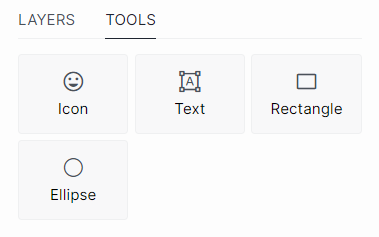
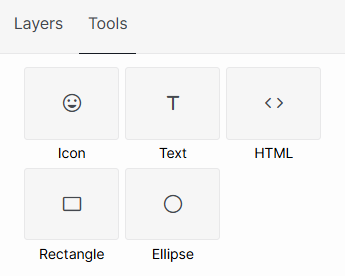
WIP 28/03

diff --git a/user-guide/Advanced_Modules/Dashboards_and_Low_Code_Apps/Configuring_components/Template_Editor.md b/user-guide/Advanced_Modules/Dashboards_and_Low_Code_Apps/Configuring_components/Template_Editor.md
@@ -65,7 +65,7 @@ The Template Editor UI consists of the following main components<!--RN 34858-->:
 
 ## Working with layers
 
-In the side pane of the Template Editor, the *Layers* tab offers an overview of all layers. Layers are used to make non-destructive edits by stacking icons, text, rectangles, and ellipses one on top of the other without compromising the pixels of individual elements.
+In the side pane of the Template Editor, the *Layers* tab offers an overview of all layers. Layers are used to make non-destructive edits by stacking icons, text, HTML content, rectangles, and ellipses one on top of the other without compromising the pixels of individual elements.
 
 The benefits of working with layers:
 
@@ -86,11 +86,19 @@ To **temporarily mask a layer** within the Template Editor, hover the mouse poin
 > [!TIP]
 > If you want to render a layer invisible in the final result, you can mask the layer by adjusting its properties in the *Settings* pane. See [Specifying layer properties](#specifying-layer-properties).
 
-To **delete a layer**, hover the mouse pointer over the layer and click the *delete* button in the top-right corner. Alternatively, select the layer in the preview and press *Delete* on your keyboard.
+To **delete a layer**:
+
+- From DataMiner 10.4.0 [CU14]/10.5.0 [CU2]/10.5.5 onwards<!--RN 42479-->: Hover the mouse pointer over the layer, click the ellipsis button ("...") in the top-right corner, and select *Delete*.
+
+- Earlier versions: Hover the mouse pointer over the layer and click the *delete* button in the top-right corner.
+
+Alternatively, select the layer in the preview and press *Delete* on your keyboard.
+
+To **duplicate a layer**, hover the mouse pointer over the layer, click the ellipsis button ("...") in the top-right corner, and select *Duplicate*. Available from DataMiner 10.4.0 [CU14]/10.5.0 [CU2]/10.5.5 onwards<!--RN 42479-->.
 
 To **add a new layer**, [add a new tool](#adding-new-layers) in the *Tools* tab.
 
-In the lower left corner of each layer, an icon denotes the layer type: an *icon*, *text*, *rectangle*, or *ellipse* layer.
+In the lower left corner of each layer, an icon denotes the layer type: an *icon*, *text*, *HTML*, *rectangle*, or *ellipse* layer.
 
 ## Adding new layers
 
@@ -100,13 +108,15 @@ In the *Tools* tab, you can add new layers to the template. Each tool in the *To
 
 - Text
 
+- HTML (available from DataMiner 10.4.0 [CU14]/10.5.0 [CU2]/10.5.5 onwards<!--RN 42519-->)
+
 - Rectangle
 
 - Ellipse
 
-![*Tools* tab](~/user-guide/images/Tools_Tab.png)<br/>*The Template Editor in DataMiner 10.4.1*
+![*Tools* tab](~/user-guide/images/Tools_Tab.png)<br/>*The Template Editor in DataMiner 10.5.5*
 
-1. To add a new layer to the template, click the *Icon*, *Text*, *Rectangle*, or *Ellipse* button.
+1. To add a new layer to the template, click the *Icon*, *Text*, *HTML*, *Rectangle*, or *Ellipse* button.
 
 1. Within the preview, press and hold down the left mouse button to define the area for your new layer. The layer appears, enclosed by dotted lines in a frame around the selected area. Release the mouse button once you are satisfied with the size and shape of the tool.
 
@@ -168,6 +178,8 @@ Depending on the type of layer, you can specify different layer properties in th
 
   - *Icon*: Allows you to select any of the available icons from the dropdown list. You can search for a specific icon using the filter box at the top.
 
+  - *Tooltip* ![tooltip](~/user-guide/images/Tooltip.png) : Available from DataMiner 10.4.0 [CU14]/10.5.0 [CU2]/10.5.5 onwards<!--RN 42503-->. Allows you to configure a tooltip that appears when hovering over the icon. If multiple layers overlap, the tooltip of the topmost layer will be displayed.
+
   - *Configure actions*: Allows you to configure actions that are executed when a user clicks the icon. Only available for DataMiner Low-Code Apps<!--RN 34761-->.
 
     > [!TIP]
@@ -175,14 +187,16 @@ Depending on the type of layer, you can specify different layer properties in th
 
 - For *Text* layers, you can specify the following properties:
 
-  - *Show text*: Allows you to mask the layer, rendering it temporarily invisible. If disabled, the layer is still visible in the preview with lowered opacity, but it will not be visible in the template's end result.
+  - *Show text*: Allows you to mask the layer, rendering it temporarily invisible. If disabled, the layer is still visible in the preview, but it will not be visible in the template's end result.
 
-  - *Text box*: Allows you to enter custom text. HTML text formatting is supported, and you can enter a column name surrounded by curly brackets (e.g. `{my column}`) to insert the corresponding cell value inside your text.
+  - *Text box*: Allows you to enter custom text. You can enter a column name surrounded by curly brackets (e.g. `{my column}`) to insert the corresponding cell value inside your text. Prior to DataMiner 10.4.0 [CU14]/10.5.0 [CU2]/10.5.4<!--RN 42519-->, HTML text formatting is supported.
 
-    ![HTML text formatting](~/user-guide/images/HTML_Text_Formatting.png)<br/>*Template Editor in DataMiner 10.4.1*
+  - *Tooltip* ![tooltip](~/user-guide/images/Tooltip.png) : Available from DataMiner 10.4.0 [CU14]/10.5.0 [CU2]/10.5.5 onwards<!--RN 42503-->. Allows you to configure a tooltip that appears when hovering over the text. If multiple layers overlap, the tooltip of the topmost layer will be displayed.
+
+  - *Configure actions*: Available from DataMiner 10.4.0 [CU14]/10.5.0 [CU2]/10.5.5 onwards<!--RN 42473-->. Allows you to configure actions that are executed when a user clicks the text. Only available for DataMiner Low-Code Apps.
 
     > [!TIP]
-    > For more information on formatting elements designed to display special types of text, see [HTML Text Formatting](https://www.w3schools.com/html/html_formatting.asp).
+    > For more information on how to configure these actions, see [Configuring low-code app events](xref:LowCodeApps_event_config).
 
   - The table below describes the remaining settings available for *Text* layers:
 
@@ -196,6 +210,24 @@ Depending on the type of layer, you can specify different layer properties in th
     | ![Vertical padding](~/user-guide/images/Text_Vertical_Padding.png) | Vertical padding | Specify the amount of space (in pixels) that should be left free underneath the text. |
     | ![Horizontal alignment](~/user-guide/images/Text_Horizontal_Alignment.png) | Horizontal alignment | Left, center, right, or justify. |
     | ![Vertical alignment](~/user-guide/images/Text_Vertical_Alignment.png) | Vertical alignment | Top, center, or bottom. |
+
+- For *HTML* layers, you can specify the following properties:
+
+  - *Show HTML*: Allows you to mask the layer, rendering it temporarily invisible. If disabled, the layer is still visible in the preview, but it will not be visible in the template's end result.
+
+  - *Text box*: Allows you to enter HTML code. The editor provides basic syntax highlighting and IntelliSense support.
+
+    ![HTML code example](~/user-guide/images/HTML.gif)<br>*Template Editor in DataMiner 10.5.5*
+
+    > [!TIP]
+    > See also: [HTML Text Formatting](https://www.w3schools.com/html/html_formatting.asp).
+
+  - *Tooltip* ![tooltip](~/user-guide/images/Tooltip.png) : Allows you to configure a tooltip that appears when hovering over the HTML content. If multiple layers overlap, the tooltip of the topmost layer will be displayed.
+
+  - *Configure actions*: Allows you to configure actions that are executed when a user clicks the HTML content. Only available for DataMiner Low-Code Apps.
+
+    > [!TIP]
+    > For more information on how to configure these actions, see [Configuring low-code app events](xref:LowCodeApps_event_config).
 
 - For *Rectangle* layers, you can specify the following properties:
 
@@ -212,6 +244,8 @@ Depending on the type of layer, you can specify different layer properties in th
   
   - *Link height to*: Allows you to link the height of this column to that of another column, selected from the dropdown list. Only available for table and grid components.
 
+  - *Tooltip* ![tooltip](~/user-guide/images/Tooltip.png) : Available from DataMiner 10.4.0 [CU14]/10.5.0 [CU2]/10.5.5 onwards<!--RN 42503-->. Allows you to configure a tooltip that appears when hovering over the rectangle. If multiple layers overlap, the tooltip of the topmost layer will be displayed.
+
   - *Configure actions*: Allows you to configure actions that are executed when a user clicks the rectangle. Only available for DataMiner Low-Code Apps<!--RN 34761-->.
 
     > [!TIP]
@@ -225,6 +259,8 @@ Depending on the type of layer, you can specify different layer properties in th
 
     > [!TIP]
     > For a full overview of all HTML color names, see [HTML Color Names](https://www.w3schools.com/tags/ref_colornames.asp).
+
+  - *Tooltip* ![tooltip](~/user-guide/images/Tooltip.png) : Available from DataMiner 10.4.0 [CU14]/10.5.0 [CU2]/10.5.5 onwards<!--RN 42503-->. Allows you to configure a tooltip that appears when hovering over the ellipse. If multiple layers overlap, the tooltip of the topmost layer will be displayed.
 
   - *Configure actions*: Allows you to configure actions that are executed when a user clicks the ellipse. Only available for DataMiner Low-Code Apps<!--RN 34761-->.
 
@@ -296,12 +332,13 @@ To add a condition:
 
      - *Icon*: Allows you to select a new icon from the dropdown list. You can search for a specific icon using the filter box at the top.
 
+     - *Tooltip*: Available from DataMiner 10.4.0 [CU14]/10.5.0 [CU2]/10.5.5 onwards<!--RN 42503-->. Allows you to configure a tooltip that appears when hovering over the icon. If multiple layers overlap, the tooltip of the topmost layer will be displayed.
+
+     - *Events*: Available from <!--to add--> onwards. Allows you to configure actions that are executed when a user clicks the icon. Only available for DataMiner Low-Code Apps.
+
    - *Text* layer:
 
-     - *Text*: Allows you to enter custom text. HTML text formatting is supported.
-
-       > [!TIP]
-       > For more information on formatting elements designed to display special types of text, see [HTML Text Formatting](https://www.w3schools.com/html/html_formatting.asp).
+     - *Text*: Allows you to enter custom text. Prior to DataMiner 10.4.0 [CU14]/10.5.0 [CU2]/10.5.5<!--RN 42519-->, HTML text formatting is supported.
 
      - *Font size*: Allows you to set the font size.
 
@@ -319,6 +356,18 @@ To add a condition:
 
      - *Vertical alignment*: Determines the vertical alignment (top, center, or bottom).
 
+     - *Tooltip*: Available from DataMiner 10.4.0 [CU14]/10.5.0 [CU2]/10.5.5 onwards<!--RN 42503-->. Allows you to configure a tooltip that appears when hovering over the text. If multiple layers overlap, the tooltip of the topmost layer will be displayed.
+
+     - *Events*: Available from <!--to add--> onwards. Allows you to configure actions that are executed when a user clicks the text. Only available for DataMiner Low-Code Apps.
+
+   - *HTML* layer:
+
+     - *HTML*: Allows you to enter custom HTML code. The editor provides basic syntax highlighting and IntelliSense support.
+
+     - *Tooltip*: Allows you to configure a tooltip that appears when hovering over the HTML content. If multiple layers overlap, the tooltip of the topmost layer will be displayed.
+
+     - *Events*: <!--to do: check why this button doesn't work for the HTML layer & whether this button already existed for other layers prior to DataMiner 10.5.5.--> Allows you to configure actions that are executed when a user clicks the ellipse. Only available for DataMiner Low-Code Apps.
+
    - *Rectangle* layer:
 
      - *Color*: Allows you to select a color for the tool, either by specifying the color in RGB format, by entering the hex value or HTML color name, or by using the color picker box.
@@ -329,9 +378,17 @@ To add a condition:
 
      - *Link height to*: Allows you to link the height of this tool to that of another column, selected from the dropdown list.
 
+     - *Tooltip*: Available from DataMiner 10.4.0 [CU14]/10.5.0 [CU2]/10.5.5 onwards<!--RN 42503-->. Allows you to configure a tooltip that appears when hovering over the rectangle. If multiple layers overlap, the tooltip of the topmost layer will be displayed.
+
+     - *Events*: Available from <!--to add--> onwards. Allows you to configure actions that are executed when a user clicks the rectangle. Only available for DataMiner Low-Code Apps.
+
    - *Ellipse* layer:
 
      - *Color*: Allows you to select a color for the tool, either by specifying the color in RGB format, by entering the hex value or HTML color name, or by using the color picker box.
+
+     - *Tooltip*: Available from DataMiner 10.4.0 [CU14]/10.5.0 [CU2]/10.5.5 onwards<!--RN 42503-->. Allows you to configure a tooltip that appears when hovering over the ellipse. If multiple layers overlap, the tooltip of the topmost layer will be displayed.
+
+     - *Events*: Available from <!--to add--> onwards. Allows you to configure actions that are executed when a user clicks the ellipse. Only available for DataMiner Low-Code Apps.
 
    > [!TIP]
    > For a full overview of all HTML color names, see [HTML Color Names](https://www.w3schools.com/tags/ref_colornames.asp).
